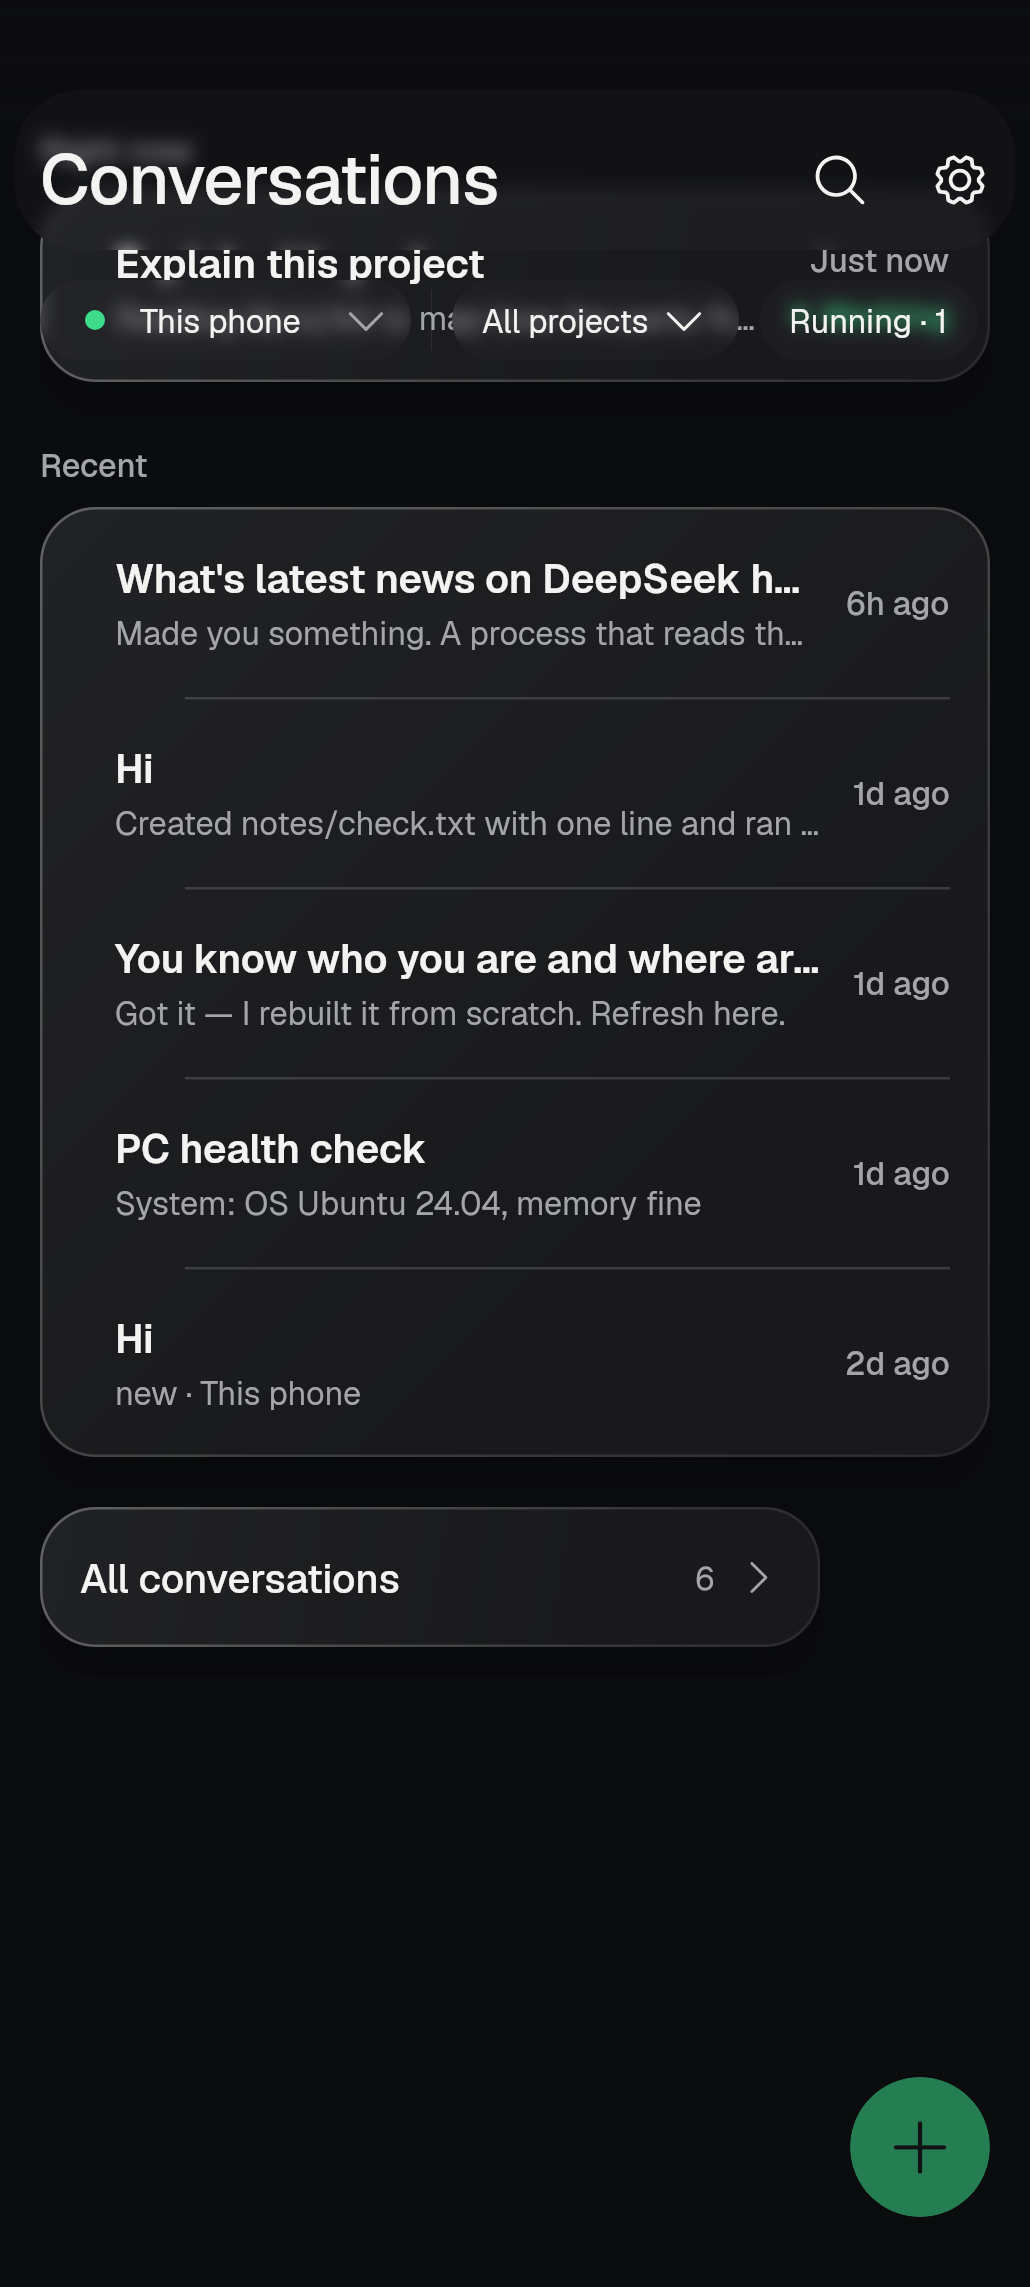
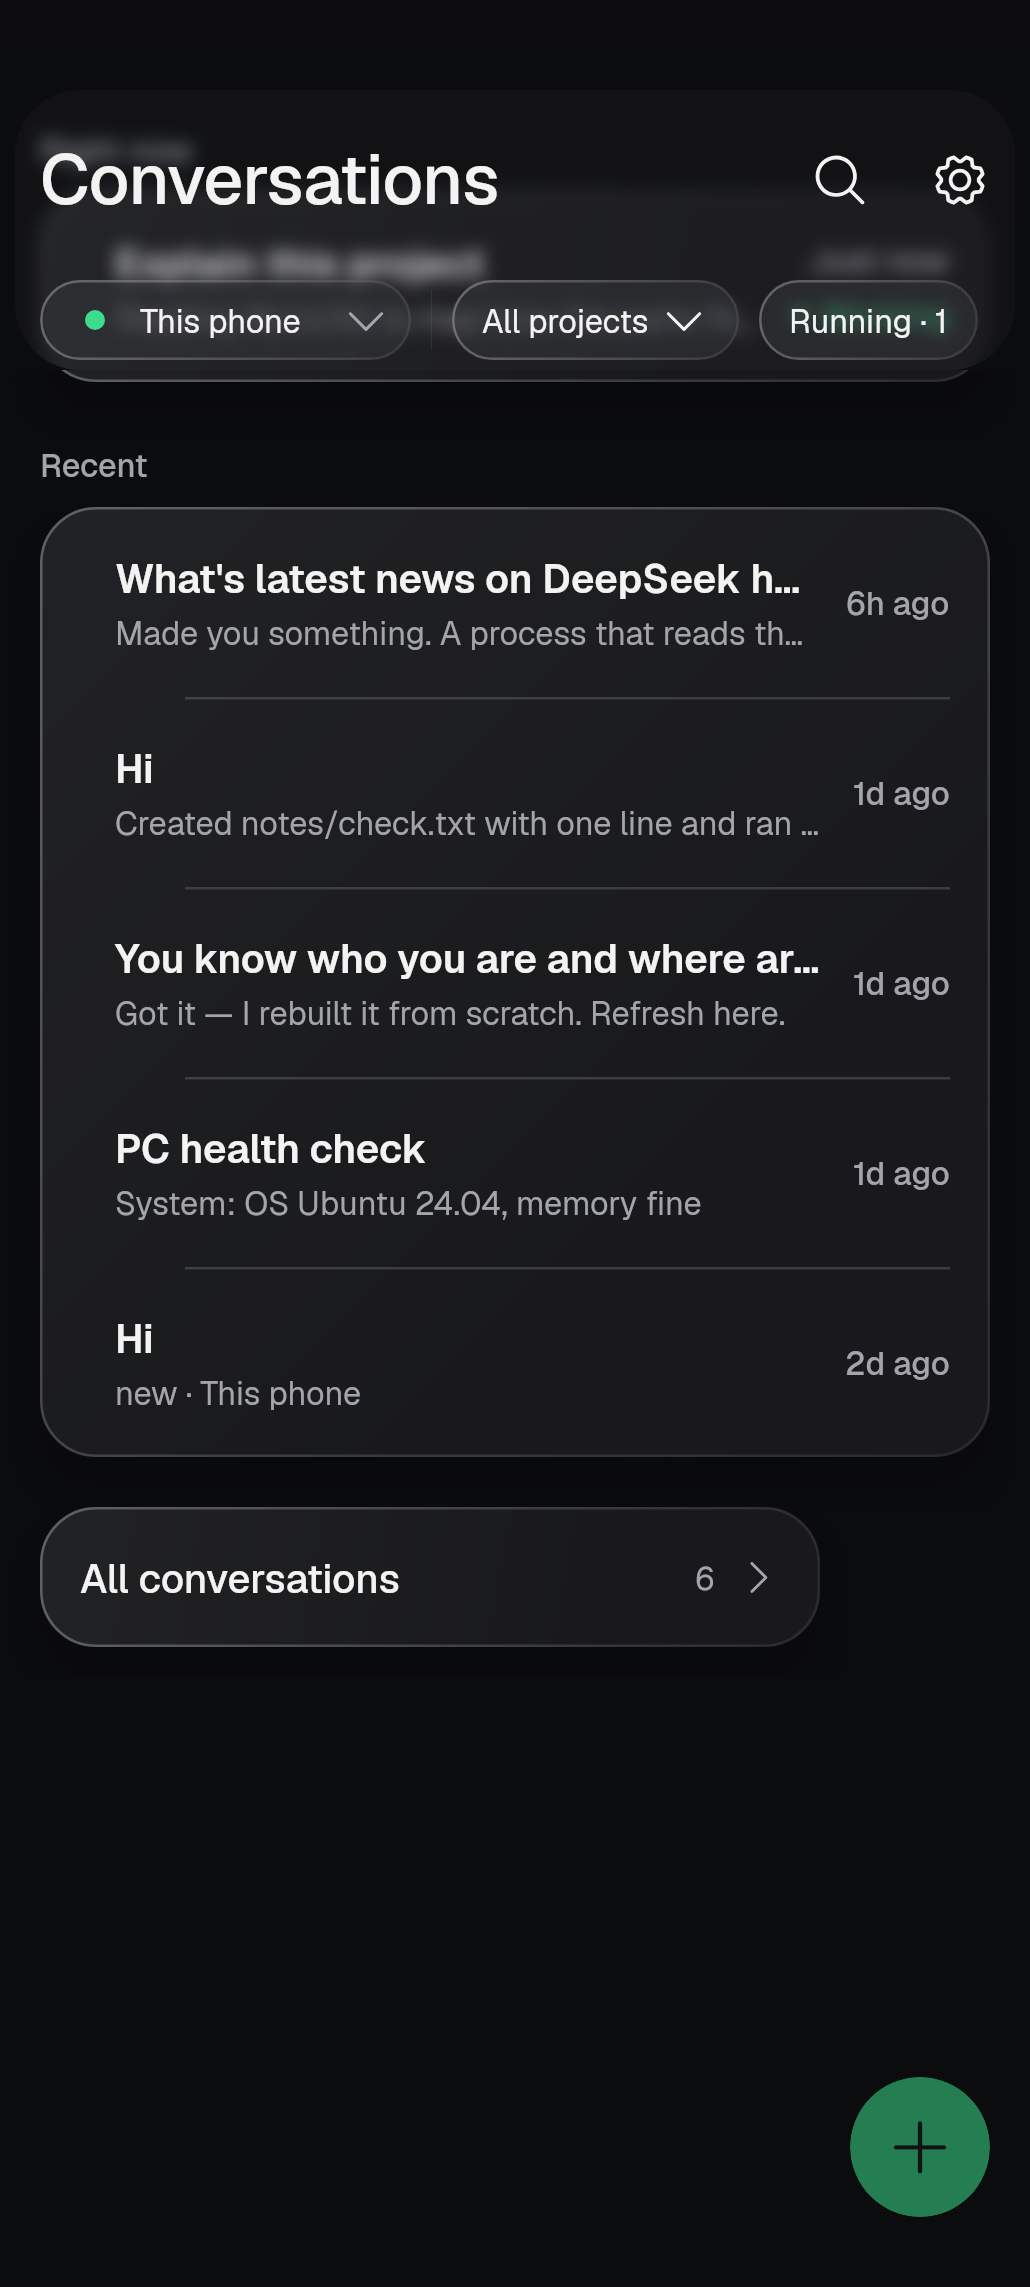
docs(glass): step 4 as built with one body of glass, and its pictures [skip ci]
The as-built section describes the one pane under the title and chips, the
budget of two, the cleared margins and the renamed below slot; the pictures are
rendered again (rest, scrolled about 120 dp, and a third scrolled about 170 dp
with the running row's green under the pane's words) and described as seen.

Claude-Session: https://claude.ai/code/session_01KeWumm9tFa2WiPg1WiKohf

Changed region(s): [[0.0932, 0.0931, 0.4971, 0.1552], [0.7767, 0.0931, 0.932, 0.1242], [0.0311, 0.1242, 0.0621, 0.1552]]

diff --git a/docs/designs/glass-in-the-kit.md b/docs/designs/glass-in-the-kit.md
@@ -154,30 +154,33 @@ Plan: `glass-in-the-kit/STEP4-PLAN.md`. Opt-in, home and the Settings frame only
 **What the person sees, where the lens is drawn** (Glass, a look with a lens, Android 13+, no battery saver, no
 reduced motion, no high contrast, a window at least 480 dp tall):
 
-- Home: the title row ("Conversations", the "need you" line, Search, Settings) is a liquid capsule pinned under the
-  status bar. Under it, outside the capsule, the server pill, the divider and the filter chips float as liquid pills.
-  At rest the list starts exactly where it did (tested to half a dp). Pulled up, the list runs on under the pills, the
-  capsule and the status bar; under the status bar it dissolves into a blur of itself, as the chat does (chat edge A).
-  The title stays large; nothing collapses.
+- Home: the title row ("Conversations", the "need you" line, Search, Settings) and the chips row (server pill,
+  divider, filters) lie on ONE liquid pane pinned under the status bar: one body of glass, the bar's shape and radius,
+  one bottom edge (coordinator 2026-11-11, replacing the first build's separate pills, whose gaps let the list show
+  through). The chips, the status pill and the divider are controls on the pane: no lens and no frost of their own
+  (the pane is the root of their glass stack), their outlined control faces kept. At rest the list starts exactly where
+  it did (tested to half a dp). Pulled up, the list runs on under the pane and the status bar; nothing of it shows
+  above the pane's bottom edge except through the glass (it is cleared beside the pane's rounded ends and in its 6 dp
+  margins); under the status bar it dissolves into a blur of itself, as the chat does (chat edge A). The title stays
+  large; nothing collapses.
 - Settings (every page of the narrow-window Settings frame): the bar with Back and the title is a liquid capsule; the
   page scrolls on under it. The kit records the page for it.
-- The refresh disc comes out below the pills, not under them.
+- The refresh disc comes out below the pane, not under it.
 - A part brought into view while it would rest under the bar (a focused field, a keyboard or TalkBack move) brings the
   page back to its resting layout, so it lies below the bar.
-- A tap on the floating chrome (the title, the gaps beside the pills) is the chrome's: it never reaches a row that has
+- A tap on the floating chrome (the title, the gaps between the chips) is the chrome's: it never reaches a row that has
   scrolled under it. A drag that starts on the chrome does not scroll the page any more.
 
 **Everywhere else** the page is today's: every other style, Glass without a lens (reduced motion, the Frosted look,
 battery saver, high contrast, Android 12 and below, desktop) and short windows. Home's title and chips are then the
 scrolling header again; Settings keeps its pinned bar. Every screen that does not pass the option is unchanged.
 
-**Kit API:** `KitScreen(floatingBar: KitFloatingBar? = null)`; `KitFloatingBar(scrollsElsewhere, source, pills)`
-(`ui/kit/.../frame/KitFloatingBar.kt`); `KitRefresh(indicatorTopPx)`; `KitStatusPill` asks the kit for a `Pill` face
-under `LocalKitLiquidChrome`, as `KitChip` does. No new glass numbers.
+**Kit API:** `KitScreen(floatingBar: KitFloatingBar? = null)`; `KitFloatingBar(scrollsElsewhere, source, below)`
+(`ui/kit/.../frame/KitFloatingBar.kt`; `below` is a second row inside the bar's pane); `KitRefresh(indicatorTopPx)`.
+The first build's liquid branch in `KitStatusPill` is reverted: nothing uses it now. No new glass numbers.
 
-**Lens budget on home** (tested): bar 1, the + 1, three pills 3 = 5 of 5; the list's recording is the feature's and
-costs nothing. A sixth part (the Undo bar's Status role) is held to frost. With two or more servers saved, the
-"Sources" chip makes a fourth pill: then one pill (the one composed last) is frost of the same shape.
+**Lens budget on home** (tested): the pane 1, the + 1 = 2 of 5; the list's recording is the feature's and costs
+nothing. Chips on the pane cost nothing, so a fourth chip (two or more servers saved) changes nothing.
 
 **Departures from the plan, and where the plan was wrong**
 
@@ -186,9 +189,9 @@ costs nothing. A sixth part (the Undo bar's Status role) is held to frost. With 
 - `floats` also requires `frost == null`: a chat (it passes `frost`) never takes the floating path.
 - The status bar's edge cannot simply read `source ?: under`: a feature's recording lies where its list lies, not at
   the body's top, so the frame draws it shifted by the difference of the two origins.
-- Pills are liquid only over a feature's recording (`source`): `LocalKitLiquidChrome` carries a `KitFrostState`, and
-  the kit's own body recording is another type. Settings has no pills, so nothing is lost today.
-- The fallback without a lens and without `scrollsElsewhere` puts pills (if any) at the top of the scrolling header.
+- The plan's separate pills (§2, §3) were built first and replaced by one pane after the scrolled render (see above).
+  `pills` is now `below`.
+- The fallback without a lens and without `scrollsElsewhere` puts `below` (if any) at the top of the scrolling header.
   No page uses that yet.
 - A bar that is the page's own heading (`scrollsElsewhere`) keeps the body's width cap on medium and wider windows (it
   was part of the capped header before). Phones are not affected.
@@ -198,7 +201,9 @@ costs nothing. A sixth part (the Undo bar's Status role) is held to frost. With 
   whole spacer back when the part starts under the chrome.
 - Not in the plan: taps falling through the floating chrome to a row under it (Compose hit-tests siblings and stops at
   the first with pointer input; the title has none). The chrome now takes every touch inside it. Cost: a drag that
-  starts on the title or the pills no longer scrolls the list.
+  starts on the title or the chips no longer scrolls the list (accepted).
+- Large text: the pane is not capped; at text size 2 home's chrome ends at 208 of 800 dp (Settings 160). Noted, not
+  changed.
 - The focus test runs on Report a problem, not Server configuration: Server configuration draws its own `KitScreen`,
   not the Settings frame, so it does not float. The Settings frame's pages with fields are the hub (its search, at the
   top) and Report a problem (a multi-line field). Both float.
@@ -210,50 +215,55 @@ costs nothing. A sixth part (the Undo bar's Status role) is held to frost. With 
 
 **Pictures** (desktop, Glass dark, 412 × 915 dp at 2.5×, a 32 dp status bar; a stand-in lens that blurs what it reads
 under its tint, so no bend, no rim light, no aurora, no ink flip timing and no frame cost can be judged from them):
-`glass-in-the-kit/render-step4-home-rest-before.png`, `render-step4-home-rest.png`,
-`render-step4-home-scrolled-before.png`, `render-step4-home-scrolled.png`.
+`glass-in-the-kit/render-step4-home-rest.png`, `render-step4-home-scrolled.png` (about 120 dp),
+`render-step4-home-scrolled-bright.png` (about 170 dp), and `render-step4-home-rest-before.png`,
+`render-step4-home-scrolled-before.png` (base 7acb5fd8f1).
 
-- Rest, after: every row sits where it sits before ("Right now" and the first panel on the same pixel rows); the title
-  row now sits in a dark capsule 6 dp in from the sides, and the three chips have liquid faces instead of their outlined
-  control faces (the stand-in lens draws no rim light, so on desktop they lose their outline; the phone draws a rim).
-  With nothing under it the capsule reads as a slightly lighter dark rounded panel: the glass shows only once
-  something scrolls under it.
-- Scrolled about 120 dp, after: the "Right now" label shows blurred inside the capsule; the "Explain this project" row
-  is caught between the capsule and the pills, its title sharp in the gap and its preview line hidden behind the pills
-  except for fragments ("ma", "…") that show sharp in the gaps between them; the Running pill picks up the green of
-  "Working" under it; the vertical divider between "This phone" and the filters floats over the row's words; the
-  panel's outline passes behind the pills. Nothing under the status bar yet at this distance.
-- Before (base 7acb5fd8f1, the same test file run there): at rest the title and outlined chips on the page's ground;
-  scrolled the same distance, the title and chips have scrolled away and the first row sits at the same height as in
-  the scrolled "after" picture, with nothing over it.
+- Rest: every row sits where it sits before ("Right now" on the same pixel row). One dark rounded pane, 6 dp in from
+  the sides, holds the title row and the chips row; the chips keep their outlined faces and sit on it, the divider
+  between "This phone" and the filters is on the pane. "Right now" keeps today's gap below the chips row; the pane's
+  bottom edge sits 4 dp inside that row's foot (the bar's pane inset), about 28 dp above the label. With nothing under it the pane reads as a slightly lighter dark panel.
+- Scrolled about 120 dp: the "Right now" label and the title of the running row show blurred inside the pane, between
+  the title and the chips; nothing of the page shows sharp between them, beside the pane or above its bottom edge. The
+  Running chip picks up the green of "Working" under it. Just below the pane's bottom edge the bottom of the running
+  row's panel (its rounded outline) shows as a thin arc, a second edge close under the pane's edge.
+- Scrolled about 170 dp (the running row under the title): its preview line and the green "Working" show blurred in
+  the pane behind "Conversations" and the Search and Settings icons; the title and icons read clearly over them on the
+  desktop stand-in. "Recent" sits whole just below the pane's edge.
+- Before: at rest the title and outlined chips on the page's ground; scrolled the same distance, they have scrolled
+  away and the rows sit at the same heights as in the scrolled "after" picture, with nothing over them.
 
 **What to look at on the phone** (Glass, a look with a lens, Background on, dark):
 
-1. Home at rest: the first panel's label sits where it did; the title row is a capsule; the chips are pills.
-2. Pull the list up slowly: rows pass under the pills and the capsule and bend in the capsule's rim; under the status
+1. Home at rest: the first panel's label sits where it did; the title row and the chips lie on one pane.
+2. Pull the list up slowly: rows pass under the pane and bend in its rim; under the status
    bar they blur into the dim. Judge the words of the title and the chips over bright rows.
-3. The row caught between the capsule and the pills, and the preview words that show between the pills: acceptable,
-   or does the gap need a fade?
-4. The divider between "This phone" and the filters floating over rows (plan question 3).
-5. Pull down at the top: the refresh disc comes out below the pills.
+3. One pane under the title and chips: does it read as one body of glass, and do the outlined chips read as controls
+   on it (not as glass on glass)?
+4. The thin edge of a row's panel just below the pane's bottom edge while scrolling.
+5. Pull down at the top: the refresh disc comes out below the pane.
 6. Tap the title area while rows are under it: nothing opens. Drag starting on the title: the list does not move
    (new; say if that feels wrong).
 7. Settings: hub, a group page, Appearance, Report a problem (tap the field after scrolling it under the bar; it
    should come back below the bar). Then turn on battery saver or reduced motion: both pages go back to today's look.
 8. Frame smoothness while scrolling home and Settings with the aurora on (not measured: no benchmark scene was added).
 
-**Checks run (VPS, desktop tests; no device, no emulator)**
+**Checks run (VPS, desktop tests; no device, no emulator), on the one-pane build 52c24149cc**
 
-- `KitFloatingBarTest` 12 of 12: resting place (home and Settings shapes), scrolled look (blur under the status bar
-  and in the capsule, rows sharp beside it), drag back, the refresh disc below the pills, the lens budget (bar, +, three
-  pills granted; a Status part frost; and `LiquidEdge.grant` alone), pixel equality with and without the option in
-  Solid, Soft, Brutal, Paper, Signal and Glass with no lens, reduced motion and the Frosted look, the short window,
-  right to left, text size 2 (home's chrome ends at 208 of 800 dp, Settings' at 160), a focused part brought back
-  below the bar, taps on the chrome.
-- `FloatingHomeTest` 2 of 2, `FloatingSettingsTest` 2 of 2 (the Report a problem field moved under the bar and
-  focused comes back below it, so the field pages float).
-- The kit's frame tests, all chats and all settings desktop tests (goldens included): every failure there also fails
-  on the base with the same message (66 of 66; gate tests missing Flutter goldens or breaking align/layout rules, a
-  missing redactor in two fixtures, two goldens that already differ). No golden was recorded or changed.
+- `KitFloatingBarTest` 12 of 12: resting place (home and Settings shapes; the pane spans the bar and the chips row, 4 dp
+  in), scrolled look (blur under the status bar and in the pane; the margins beside the pane cleared to the ground above
+  its bottom edge; rows sharp below it), drag back, the refresh disc below the pane, the lens budget (the pane and the +
+  only, with four chips on the pane; and `LiquidEdge.grant` alone), pixel equality with and without the option in Solid,
+  Soft, Brutal, Paper, Signal and Glass with no lens, reduced motion and the Frosted look, the short window, right to
+  left, text size 2, a focused part brought back below the bar, taps on the chrome.
+- `FloatingHomeTest` 2 of 2, `FloatingSettingsTest` 2 of 2 (the Report a problem field moved under the bar and focused
+  comes back below it, so the field pages float).
+- The kit's frame tests (54, 9 failed), the chats and settings golden tests plus `HomeJank`, `S10Home`,
+  `SettingsScreenUi`, `SettingsHubScroll` and `ReportProblem` tests (chats 22, 2 failed; settings 39, 1 failed): every
+  failure also fails on the base 7acb5fd8f1 with the same message (`KitScreenGateTest` missing Flutter goldens and an
+  align rule; `ChatsHeaderGoldensTest` offline variants and one `E20S09OpeningGoldensTest` test, where the base already
+  shows a "server isn't answering" notice the goldens lack; `SettingsGoldensTest` B-SEC-191). Before the one-pane
+  change the whole chats and settings desktop suites ran too (255 and 254 tests), with all 66 failures identical on the
+  base. No golden was recorded or changed.
 - `compileAndroidMain` for ui:kit, feature:chats and feature:settings.
 - Not run: the whole kit suite, the benchmark scene (not built), anything on a device.
